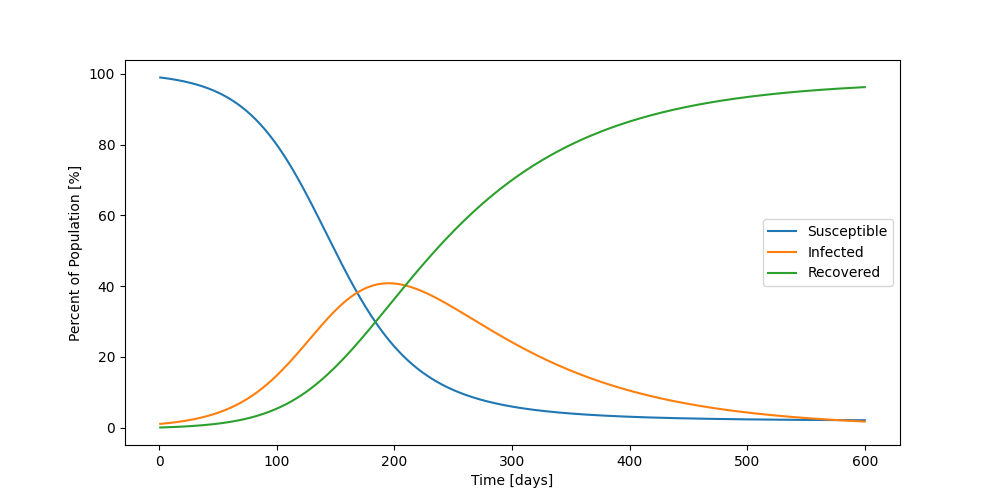
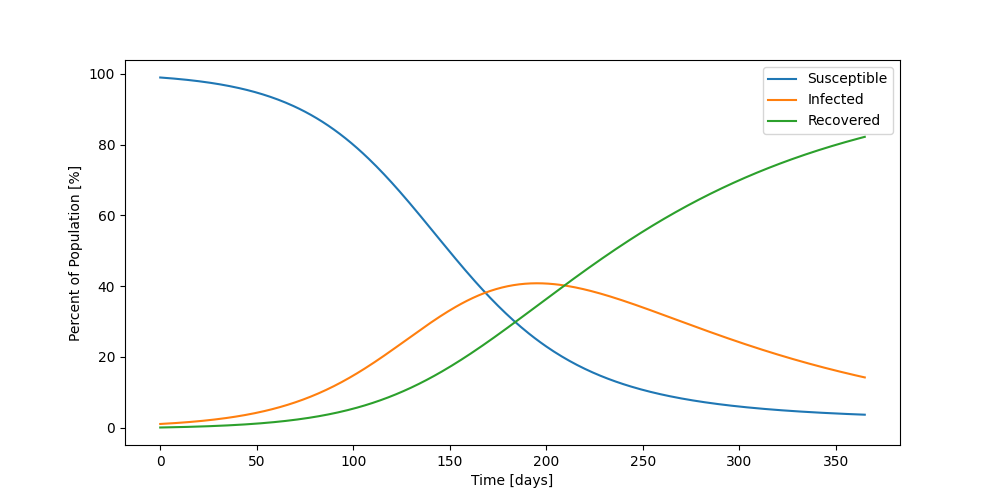
Deploy chadsgilbert/ci-data-science to github.com/chadsgilbert/ci-data-science.git:gh-pages

diff --git a/index.html b/index.html
@@ -439,7 +439,11 @@ body.book #toc,body.book #preamble,body.book h1.sect0,body.book .sect1>h2{page-b
 </ul>
 </li>
 <li><a href="#_analysis_pipeline">Analysis Pipeline</a></li>
-<li><a href="#_the_susceptible_infected_recovered_sir_model">The Susceptible, Infected, Recovered (SIR) Model</a></li>
+<li><a href="#_the_susceptible_infected_recovered_sir_model">The Susceptible, Infected, Recovered (SIR) Model</a>
+<ul class="sectlevel2">
+<li><a href="#_basic_dynamics">Basic Dynamics</a></li>
+</ul>
+</li>
 </ul>
 </div>
 </div>
@@ -632,48 +636,124 @@ python program <code>makefile2dot</code> and Graphviz.</p>
 <h2 id="_the_susceptible_infected_recovered_sir_model">The Susceptible, Infected, Recovered (SIR) Model</h2>
 <div class="sectionbody">
 <div class="paragraph">
-<p>In this first model, we&#8217;ll imagine that a new virus appears to which the entire
-population (\(N\)) is susceptible. The number of susceptible people
-(\(S\)) decreases as they become infected. For a spatially mixed population,
-the likelihood of a susceptible person encountering an infectious person is
-proportional to \(S I / N\). For now, consider \(\beta\) to just be a
-scalar rate of infection. Once someone recovers from the infection, they are
-deemed no longer to be susceptible to the virus. We will count the number of
-people who are recovered, \(R\). Let \(\gamma\) be the rate at which
-infected people recover from the virus.</p>
+<p>The first model idealizes a disease like measles, mumps or rubella, in which
+people who have recovered from it maintain immunity for the rest of their
+life.</p>
 </div>
 <div class="paragraph">
-<p>This model give the equations:</p>
+<p>Let \$S\$ be a real number representing the proportion of the population
+that is susceptible to the disease. They are healthy and have no immunity
+against the disease. In this model, we will assume that all people in the
+population are equally likely to get the disease and none of them are immune to
+it.</p>
 </div>
-<div id="number" class="stemblock">
+<div class="paragraph">
+<p>Let \$I\$ be a real number representing the propotion of the population
+that is currently infected with the disease.</p>
+</div>
+<div class="paragraph">
+<p>Let \$R\$ be a real number representing the  proportion of the population
+that has recovered from the disease. These people are no lnger contagious,
+meaning they can no longer get anyone else sick, and they are immune to the
+disease, so they can&#8217;t get it again.</p>
+</div>
+<div class="paragraph">
+<p>The the rates at which people transition from susceptible (\$S\$) to
+infected (\$I\$) to recovered (\$R\$) is described by the following
+equations:</p>
+</div>
+<div class="stemblock">
 <div class="content">
 \[\frac{dS}{dt} = -\frac{\beta I S}{N} \\
-
 \frac{dI}{dt} = \frac{\beta I S}{N} - \gamma I \\
-
-R' = \gamma I \\
-
-S + I + R = N \\\]
+\frac{dR}{dt} = \gamma I\]
 </div>
 </div>
-<div class="imageblock">
+<div class="paragraph">
+<p>where \$N\$ is the total population (\$N = S + I + R\$).</p>
+</div>
+<div class="paragraph">
+<p>In this analysis, we will start by assuming that \$\beta\$ and \$\gamma\$
+are constant. Note that \$\beta\$ and \$\gamma\$ have dimension of inverse
+time. So \$\beta\$ can be thought of as the rate at which infected
+people infect susceptible people, and \$\gamma\$ as the rate at which
+infected people recover.</p>
+</div>
+<div class="sect2">
+<h3 id="_basic_dynamics">Basic Dynamics</h3>
+<div class="paragraph">
+<p>The basic dynamics of the S-I-R model are easy to understand. Imagine a
+population shortly after the introduction of a new disease where at time
+\$t = 0\$, \$1\%\$ of the population has been infected and \$99\%\$ are
+still susceptible.</p>
+</div>
+<div class="paragraph">
+<p>Since the rate of infection is proportional to the number of suscteptible people
+and the number of infected people, the number of infected people increases
+itself at an increasing rate. As people recover and become immune, the numbers
+both of infected and susceptible people are reduced, and therefore the rate of
+new infections that appear also begins to shrink.</p>
+</div>
+<div class="paragraph">
+<p>How quick the spread and how many people get infected depend on the values of
+both \$\beta\$ and \$\gamma\$. If it clear that if \$\gamma &lt; \beta\$,
+there will not be a pandemic, because the number of infections will immediately
+begin shrinking. To illustrate this, first consider the horrible case where
+\$\gamma = 0\$ so we can see what happens when nobody recovers.</p>
+</div>
+<div class="paragraph">
+<p><a href="#sir_case_0">Figure 1</a> shows the dynamic where
+\$\beta = 0.05\$ and \$\gamma = 0.00\$. Since nobody ever recovers, the
+rate of increase of infected people is identical to the rate of decrease of the
+number of susceptible people. Both follow a logistic curve.</p>
+</div>
+<div id="sir_case_0" class="imageblock">
 <div class="content">
-<img src="case1.png" alt="Case 1">
+<img src="case0.png" alt="case0">
 </div>
-<div class="title">Figure 2. Case 1 - \(\beta = 0.04\) and \(\gamma = 0.01\)</div>
+<div class="title">Figure 1 - \$\beta = 0.05\$ and \$\gamma = 0.00\$</div>
 </div>
-<div class="imageblock">
+<div class="paragraph">
+<p><a href="#sir_case_1">Figure 2</a> shows the dynamic for
+\$\beta = 0.04\$ and \$\gamma = 0.01\$. The portion of the population with
+the infection increases early on and then levels out after 180 days. At day 180,
+\$42\%\$ of the population has the disease. At this point, with more people
+recovering and becoming immune, the rate at which new recoveries occur becomes
+greater than the rate at which new infection occur. After more than a year,
+almost everyone in the population will have been infected at some point.</p>
+</div>
+<div id="sir_case_1" class="imageblock">
 <div class="content">
-<img src="case2.png" alt="Case 2">
+<img src="case1.png" alt="case1">
 </div>
-<div class="title">Figure 3. Case 2 - \(\beta = 0.08\) and \(\gamma = 0.04\)</div>
+<div class="title">Figure 2 - \$\beta = 0.04\$ and \$\gamma = 0.01\$</div>
+</div>
+<div class="paragraph">
+<p><a href="#sir_case_2">Figure 3</a> shows the dynamic for
+\$\beta = 0.08\$ and \$\gamma = 0.04\$. This time the portion of
+simultaneously infected people peaks earlier after about 100 days, with
+\$17 \%\$ of the population sick at the same time. In the limit, about
+\$80 \%\$ of the population will have been infected at some point.</p>
+</div>
+<div id="sir_case_2" class="imageblock">
+<div class="content">
+<img src="case2.png" alt="case2">
+</div>
+<div class="title">Figure 3 - \$\beta = 0.08\$ and \$\gamma = 0.04\$</div>
+</div>
+<div id="sir_max_simultaneous_infections" class="imageblock" style="text-align: center">
+<div class="content">
+<img src="beta_v_gamma.png" alt="beta v gamma">
+</div>
+<div class="title">Figure 4 - the maximum number of simultaneous infections for combinations of \$\beta\$ and \$\gamma\$.</div>
+</div>
 </div>
 </div>
 </div>
 </div>
 <div id="footer">
 <div id="footer-text">
-Last updated 2020-04-11 21:59:19 UTC
+Last updated 2020-04-20 01:02:58 UTC
 </div>
 </div>
 <script type="text/x-mathjax-config">
@@ -688,7 +768,7 @@ MathJax.Hub.Config({
     delimiters: [["\\$", "\\$"]],
     ignoreClass: "nostem|noasciimath"
   },
-  TeX: { equationNumbers: { autoNumber: "none" } }
+  TeX: { equationNumbers: { autoNumber: "AMS" } }
 });
 </script>
 <script src="https://cdnjs.cloudflare.com/ajax/libs/mathjax/2.6.0/MathJax.js?config=TeX-MML-AM_HTMLorMML"></script>
